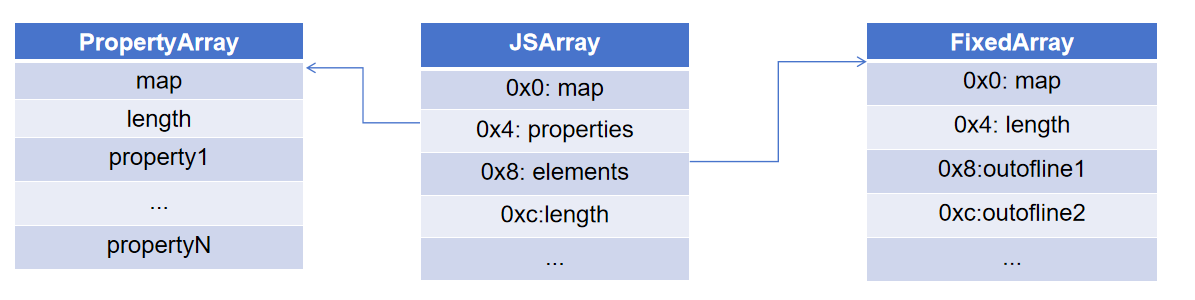
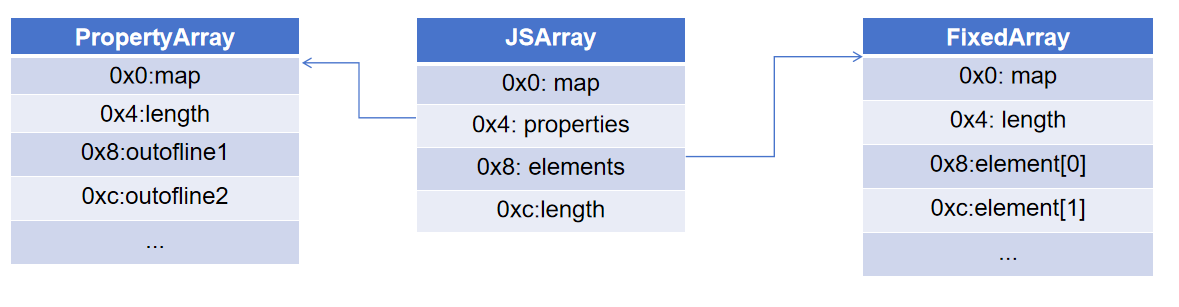
Site updated: 2024-12-21 00:06:17

diff --git a/2024/12/11/V8-数组的内存布局/index.html b/2024/12/11/V8-数组的内存布局/index.html
@@ -30,7 +30,7 @@
 <meta property="og:locale" content="en_US">
 <meta property="og:image" content="http://example.com/images/redefine-og.webp">
 <meta property="article:published_time" content="2024-12-11T11:28:50.000Z">
-<meta property="article:modified_time" content="2024-12-20T11:52:19.744Z">
+<meta property="article:modified_time" content="2024-12-20T16:02:02.488Z">
 <meta property="article:author" content="John Doe">
 <meta name="twitter:card" content="summary">
 <meta name="twitter:image" content="http://example.com/images/redefine-og.webp">
@@ -266,8 +266,8 @@
     
         <span class="article-date article-meta-item">
             <i class="fa-regular fa-wrench"></i>&nbsp;
-            <span class="desktop">2024-12-20 19:52:19</span>
-            <span class="mobile">2024-12-20 19:52:19</span>
+            <span class="desktop">2024-12-21 00:02:02</span>
+            <span class="mobile">2024-12-21 00:02:02</span>
             <span class="hover-info">Updated</span>
         </span>
     
@@ -294,7 +294,7 @@
 
 
 		<div class="article-content markdown-body px-2 sm:px-6 md:px-8 pb-8">
-			<h1 id="浮点型数组"><a href="#浮点型数组" class="headerlink" title="浮点型数组"></a>浮点型数组</h1><h3 id="定义方式：let-arr-1-1-2-2-3-3-4-4"><a href="#定义方式：let-arr-1-1-2-2-3-3-4-4" class="headerlink" title="定义方式：let arr&#x3D;[1.1, 2.2, 3.3, 4.4];"></a>定义方式：let arr&#x3D;[1.1, 2.2, 3.3, 4.4];</h3><p>js数组也可以使用属性的形式访问: 例如arr.a&#x3D;1; 这个属性a在PropertyArray中的outofline中存储。</p>
+			<h1 id="浮点型数组"><a href="#浮点型数组" class="headerlink" title="浮点型数组"></a>浮点型数组</h1><h3 id="定义方式：let-arr-1-1-2-2-3-3-4-4"><a href="#定义方式：let-arr-1-1-2-2-3-3-4-4" class="headerlink" title="定义方式：let arr&#x3D;[1.1, 2.2, 3.3, 4.4];"></a>定义方式：let arr&#x3D;[1.1, 2.2, 3.3, 4.4];</h3><p>js数组也可以使用属性的形式访问: 例如arr.a&#x3D;1; 这个属性a在PropertyArray中的propertyN中存储。</p>
 <img lazyload src="/images/loading.svg" data-src="/2024/12/11/V8-%E6%95%B0%E7%BB%84%E7%9A%84%E5%86%85%E5%AD%98%E5%B8%83%E5%B1%80/image-1.png" class title="This is an 1.png">
 
 
@@ -318,7 +318,7 @@
         
             <li>
                 <strong>Updated at
-                    :</strong> 2024-12-20 19:52:19
+                    :</strong> 2024-12-21 00:02:02
             </li>
         
         <li>

diff --git a/index.html b/index.html
@@ -509,7 +509,7 @@
                     <div class="home-article-content markdown-body">
                         
                             
-                            浮点型数组定义方式：let arr&#x3D;[1.1, 2.2, 3.3, 4.4];js数组也可以使用属性的形式访问: 例如arr.a&#x3D;1; 这个属性a在PropertyArray中的outofline中存储。
+                            浮点型数组定义方式：let arr&#x3D;[1.1, 2.2, 3.3, 4.4];js数组也可以使用属性的形式访问: 例如arr.a&#x3D;1; 这个属性a在PropertyArray中的propertyN中存储。
 
 
 
